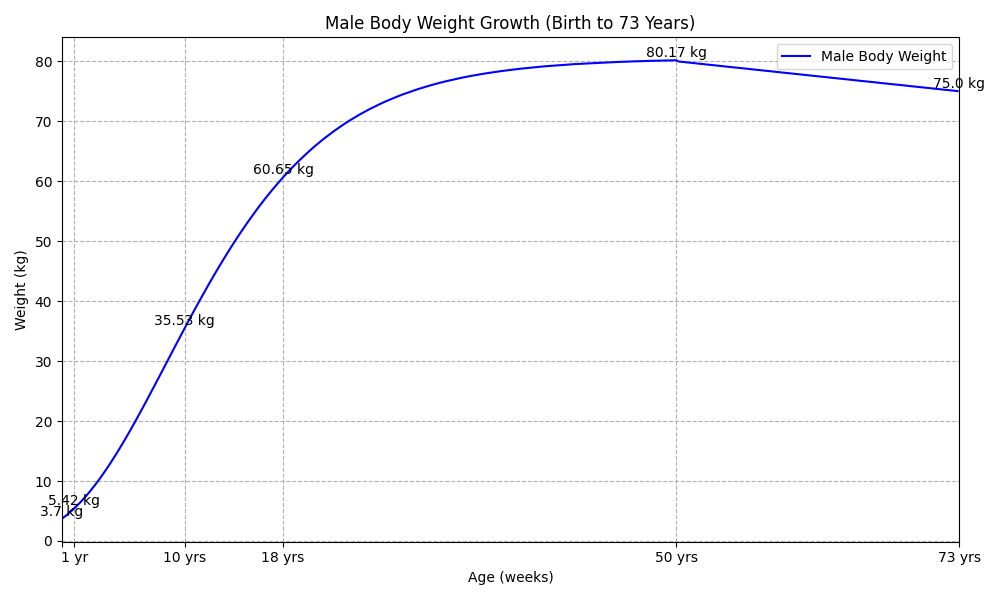
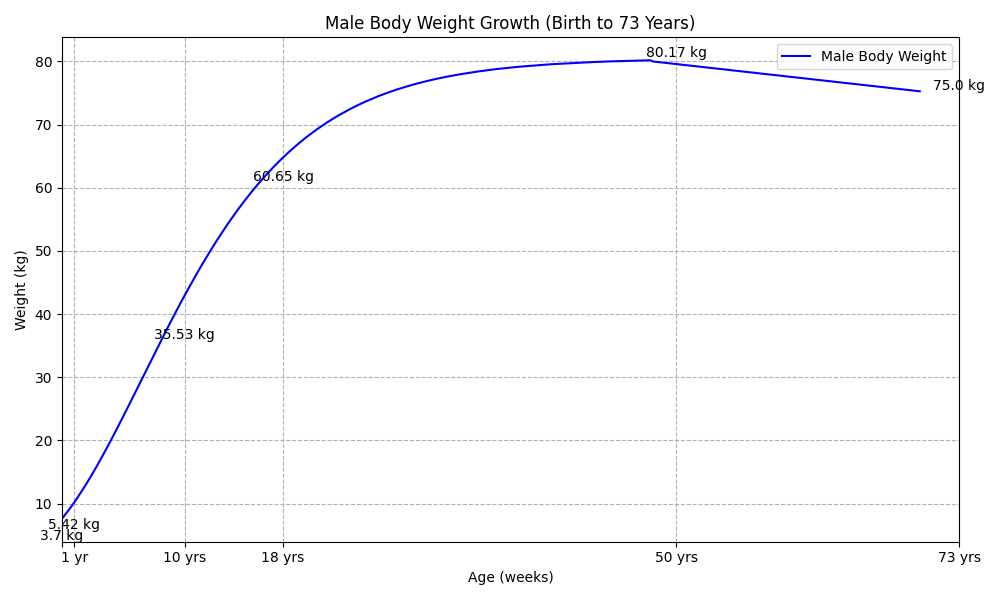
Simulating short term factor consumption

diff --git a/model/markov.py b/model/markov.py
@@ -153,7 +153,7 @@ class MarkovChains:
         return list(self.walk())
 
 
-class ProbabilityBuilder:
+class TransitionGenerator:
     def __init__(
         self,
         states: List[str],
@@ -275,7 +275,7 @@ class ProbabilityBuilder:
         return matrix
 
 
-def load_transition_matrix(
+def load_matrix(
     io: Path,
     sheet_name: str,
 ) -> tuple[str, list[str], np.ndarray]:
@@ -296,6 +296,8 @@ def load_transition_matrix(
     return (start_state, states, transitions)
 
 
+# TODO:
+# Maybe generic worker_function to reduce duplication
 def on_demand_worker_function(abr, kwargs: dict):
     """
     Worker function to process a single abr value.
@@ -346,13 +348,13 @@ def on_demand_worker_function(abr, kwargs: dict):
     }
 
     # Initialize probability builders
-    primary_builder = ProbabilityBuilder(
+    primary_builder = TransitionGenerator(
         states=primary_states,
         transition_pairs=primary_transition_pairs,
         special_transitions=primary_special_transitions,
     )
 
-    secondary_builder = ProbabilityBuilder(
+    secondary_builder = TransitionGenerator(
         states=secondary_states,
         transition_pairs=secondary_transition_pairs,
         special_transitions=secondary_special_transitions,
@@ -466,8 +468,6 @@ def on_demand_psa(n_samples: int, **kwargs):
     return inputs, results
 
 
-# TODO:
-# Update worker functions to work with new generic dynamic transition builder
 def prophylaxis_worker_function(abr, kwargs: dict):
     """
     Worker function to process a single abr value.
@@ -479,12 +479,69 @@ def prophylaxis_worker_function(abr, kwargs: dict):
     """
     abr = round(float(abr[0]))  # array to float
     ajbr = round(0.75 * abr)
-    builder = ProbabilityBuilder(abr=abr, ajbr=ajbr, annual_ltb_prob=0.0053)
-    transition = builder.get_matrix()
+    chains = kwargs["chains"]
+    primary_states = chains["primary"][0]
+    secondary_states = chains["secondary"][0]
+
+    # Define primary states transition pairs
+    primary_transition_pairs = {
+        ("Healthy", "Bleeding"): (abr / 52, "weekly"),
+        ("Healthy", "Hemarthrosis"): (ajbr / 52, "weekly"),
+        ("Bleeding", "Healthy"): (0.9, None),
+        ("Bleeding", "Death"): (0.05, None),
+        ("Hemarthrosis", "Healthy"): (0.8, None),
+        ("Hemarthrosis", "Arthropathy"): (0.0015, None),  # Placeholder value
+        ("Arthropathy", "Healthy"): (0.7, None),
+        ("Arthropathy", "Death"): (0.1, None),
+        ("LT_Bleeding", "Death"): (0.3, None),
+    }
+
+    # Define special transitions for absorbing states
+    primary_special_transitions = {
+        "Death": [0.0] * (len(primary_states) - 1) + [1.0],
+        "LT_Bleeding": [0.0] * (len(primary_states) - 2) + [0.7, 0.3],
+    }
+
+    # Define secondary states transition pairs
+    secondary_transition_pairs = {
+        ("Healthy", "Bleeding"): ((abr - ajbr) / 52, "weekly"),
+        ("Healthy", "Hemarthrosis"): (ajbr / 52, "weekly"),
+        ("Bleeding", "Healthy"): (0.9, None),
+        ("Bleeding", "Death"): (0.05, None),
+        ("Hemarthrosis", "Healthy"): (0.8, None),
+        ("LT_Bleeding", "Death"): (0.3, None),
+    }
+
+    secondary_special_transitions = {
+        "Death": [0.0] * (len(chains["secondary"][0]) - 1) + [1.0],
+        "LT_Bleeding": [0.0] * (len(secondary_states) - 2) + [0.7, 0.3],
+    }
+
+    # Initialize probability builders
+    primary_builder = TransitionGenerator(
+        states=primary_states,
+        transition_pairs=primary_transition_pairs,
+        special_transitions=primary_special_transitions,
+    )
+
+    secondary_builder = TransitionGenerator(
+        states=secondary_states,
+        transition_pairs=secondary_transition_pairs,
+        special_transitions=secondary_special_transitions,
+    )
+
+    # Define chains for MarkovChains
+    chains["primary"] = (primary_states, primary_builder.get_matrix())
+    chains["secondary"] = (secondary_states, secondary_builder.get_matrix())
+
+    # Drop previously assigned chains
+    kwargs.pop("chains")
+
+    # Initialize MarkovChains
     markov = MarkovChains(
-        transitions=transition,
-        lambda_bleeding=(abr - ajbr) / 52,  # PSA_KWARGS
-        lambda_joint_bleeding=ajbr / 52,  # PSA_KWARGS
+        chains=chains,
+        lambda_bleeding=(abr - ajbr) / 52,
+        lambda_joint_bleeding=ajbr / 52,
         **kwargs,
     )
     # Wrap utility_reward_function to track cumulative bleeds
@@ -603,7 +660,8 @@ def on_demand_factor_consumption(
     step: int, state: str, number_of_bleeds: int, **psa_kwargs
 ):
     """Reward function that calculates factor viii consumption per bleed even per patient body weight over time."""
-    weight = cal_body_weight(step)
+    # starting treatment from age 2 yo
+    weight = cal_body_weight(step, b= 2 * 52)
     injected_dose = 0
     if state.lower() == "bleeding":
         # Muscle | illopsoas | Renal | Oral mucosa and dental
@@ -623,7 +681,8 @@ def prophylaxis_factor_consumption(
     """
     Reward function that calculates factor viii consumption per bleed even per patient body weight over time.
     """
-    weight = cal_body_weight(step)
+       # starting treatment from age 2 yo
+    weight = cal_body_weight(step, b= 2 * 52)
     injected_dose = round(weight * constants.STANDARD_PROPHYLAXIS_WEEKLY_DOSE)
     if state.lower() == "bleeding":
         # Muscle | illopsoas | Renal | Oral mucosa and dental

diff --git a/model/utils.py b/model/utils.py
@@ -33,7 +33,7 @@ def probability_at_least_one_event(
     return 1 - np.exp(-lambda_value)
 
 
-def cal_body_weight(week: int) -> float:
+def cal_body_weight(week: int, b: int = 0) -> float:
     """
     Estimates male body weight in kg using Gompertz growth model (0-50 years)
     and linear decline (50-73 years) based on WHO/CDC data.
@@ -46,6 +46,7 @@ def cal_body_weight(week: int) -> float:
 
     Args:
         week (int): Age in weeks (0 to 3796)
+        b (int): f(x0) = b
 
     Returns:
         float: Estimated weight in kg, rounded to 2 decimals
@@ -53,6 +54,7 @@ def cal_body_weight(week: int) -> float:
     Raises:
         TypeError: For invalid input
     """
+    week += b
     if not isinstance(week, int) or week < 0 or week > 3796:
         raise TypeError("Week must be an integer between 0 and 3796")
 
@@ -67,14 +69,13 @@ def cal_body_weight(week: int) -> float:
     else:
         # Linear decline from 50-73 years (80kg@2600wks → 75kg@3796wks)
         weight = 80.0 - (5.0 * (week - 2600) / (3796 - 2600))
-
     return round(weight, 2)
 
 
 def plot_body_weight():
     # Generate denser points
-    weeks = np.arange(0, 3797, 10)  # Every 10 weeks
-    weights = [cal_body_weight(int(w)) for w in weeks]
+    weeks = np.arange(0, 3640, 10)  # Every 10 weeks
+    weights = [cal_body_weight(int(w), b=2 * 52) for w in weeks]
 
     # Create the plot
     plt.figure(figsize=(10, 6))
@@ -107,7 +108,7 @@ if __name__ == "__main__":
 
 
 def remove_outliers(
-    df: pd.DataFrame, endog_col: str, exog_col: str, threshold_factor: float =4
+    df: pd.DataFrame, endog_col: str, exog_col: str, threshold_factor: float = 4
 ) -> pd.DataFrame:
     """
     Helper function to remove outliers, supports pandas dataframe

diff --git a/main.py b/main.py
@@ -88,7 +88,7 @@ def markov(
     prophylaxis_cache_path = cache_dir / "prophylaxis.pkl"
 
     # Load transition matrix
-    initial_state, states, on_demand_transition = model.markov.load_transition_matrix(
+    initial_state, states, on_demand_transition = model.markov.load_matrix(
         io=PROJECT_ROOT / "data" / "Transitions.xlsx",
         sheet_name="on_demand",
     )